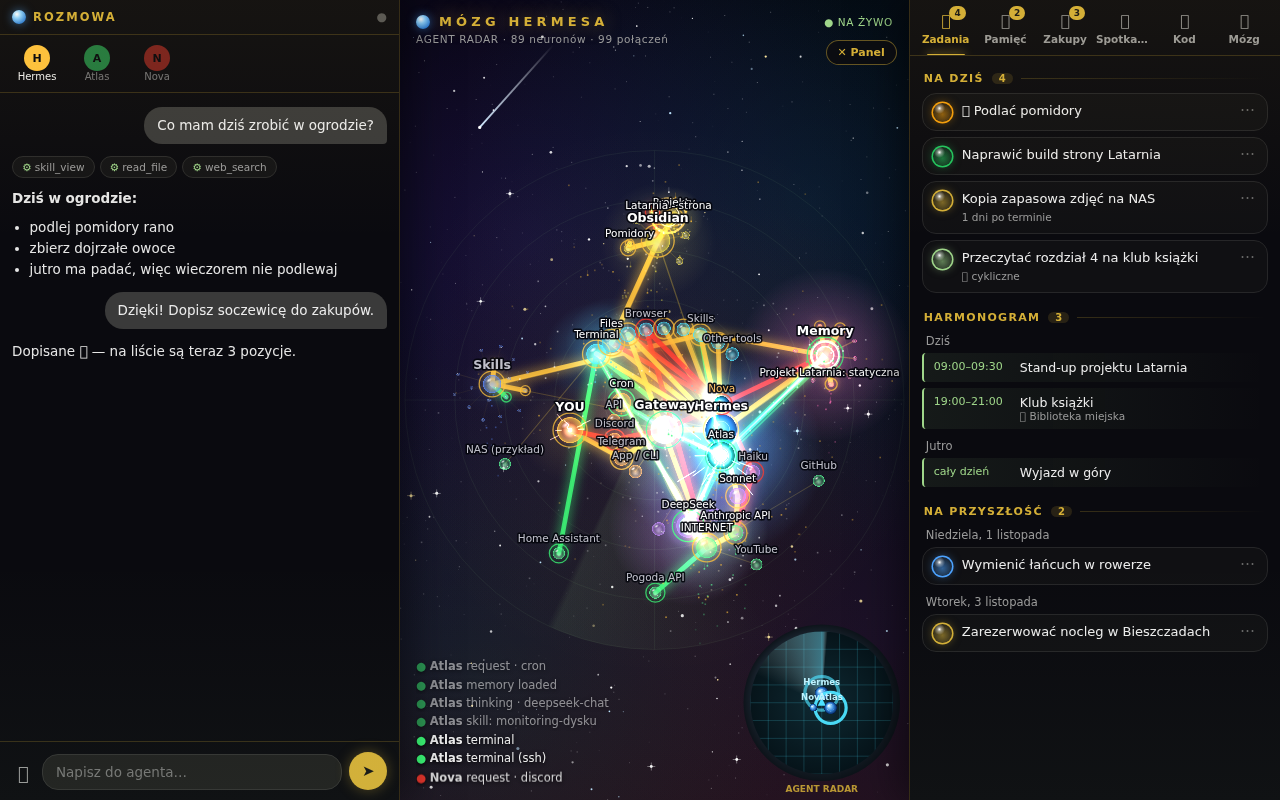
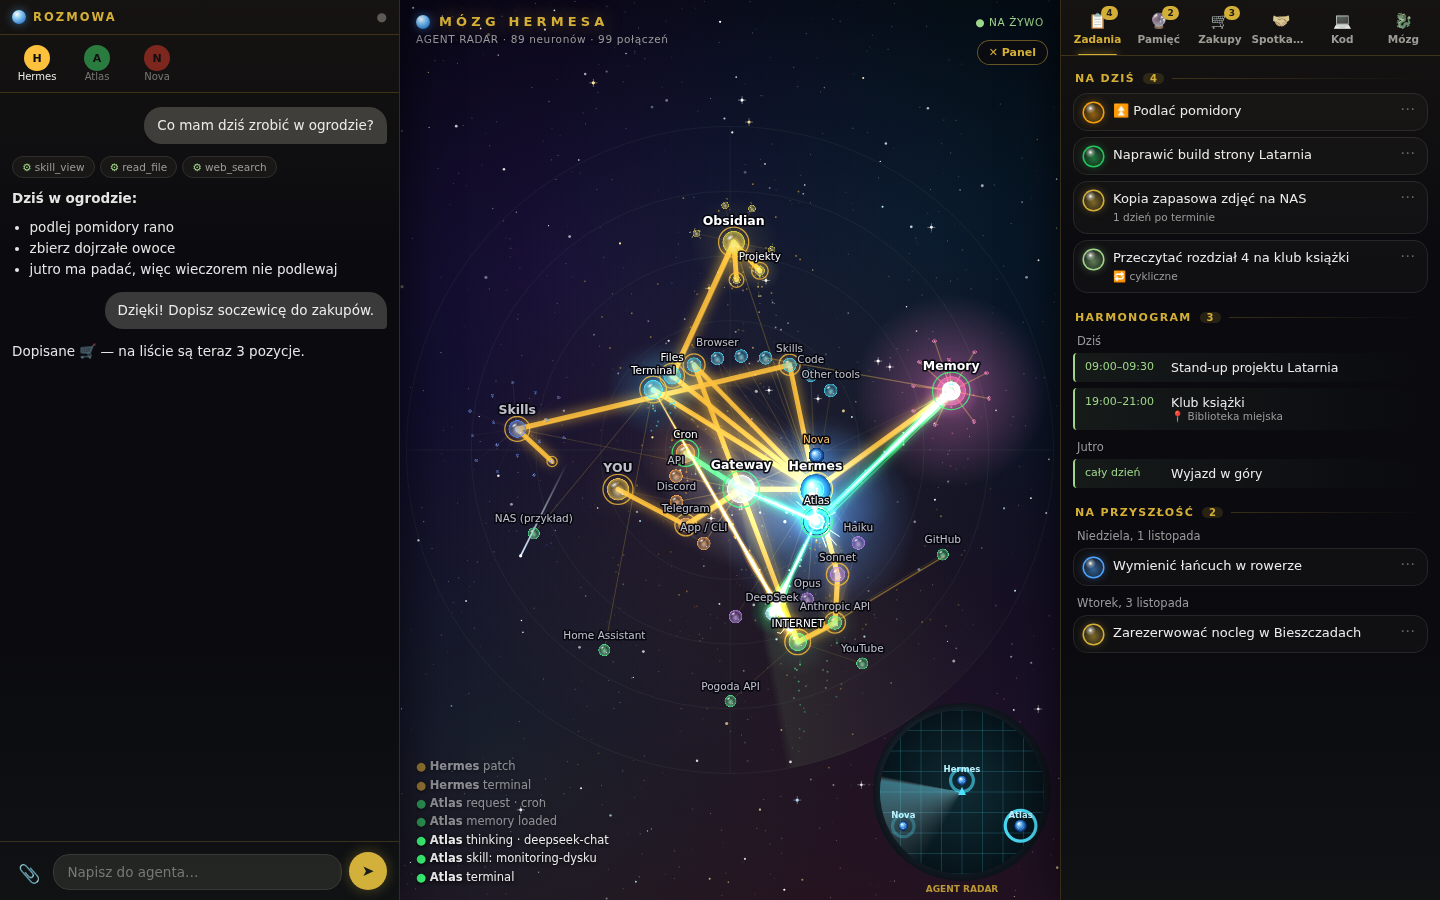
Zrzut z emoji, odmiana 'dzień'

diff --git a/web/index.html b/web/index.html
@@ -517,7 +517,7 @@ function upd(){const h=document.documentElement;$('sidebtn').textContent=(mob()?
 async function api(p,b){const r=await fetch(p,b===undefined?{}:{method:'POST',headers:{'Content-Type':'application/json'},body:JSON.stringify(b)});const j=await r.json().catch(()=>({}));if(!r.ok)throw new Error(j.detail||'serwer: '+r.status);return j}
 const dzis=()=>{const d=new Date();return`${d.getFullYear()}-${String(d.getMonth()+1).padStart(2,'0')}-${String(d.getDate()).padStart(2,'0')}`};
 const dniOd=(a,b)=>Math.round((+new Date(a+'T12:00')-+new Date(b+'T12:00'))/864e5);
-function dzien(iso,d0){if(!iso)return'';const n=dniOd(iso,d0);if(n==0)return'Dziś';if(n==1)return'Jutro';if(n==2)return'Pojutrze';if(n<0)return(-n)+' dni po terminie';return new Date(iso+'T12:00').toLocaleDateString('pl-PL',{weekday:'long',day:'numeric',month:'long'})}
+function dzien(iso,d0){if(!iso)return'';const n=dniOd(iso,d0);if(n==0)return'Dziś';if(n==1)return'Jutro';if(n==2)return'Pojutrze';if(n==-1)return'1 dzień po terminie';if(n<0)return(-n)+' dni po terminie';return new Date(iso+'T12:00').toLocaleDateString('pl-PL',{weekday:'long',day:'numeric',month:'long'})}
 const linki=s=>esc(s).replace(/(https?:\/\/[^\s<]+)/g,u=>`<a href="${u}" target="_blank" rel="noopener">${u.length>40?u.slice(0,38)+'…':u}</a>`);
 const PRIO=[['1','cito','Cito','#ef4444'],['2','wysoki','Wysoki','#f59e0b'],['3','sredni','Średni','#d4af37'],['4','niski','Niski','#4da3ff'],['5','czeka','Najniższy / czeka','#8a8a8a'],['/','wtoku','W toku','#22c55e'],[' ','','Bez priorytetu','#9fd68a']];
 const kolSt=s=>(PRIO.find(p=>p[1]==s||p[0]==s)||PRIO[6])[3];
